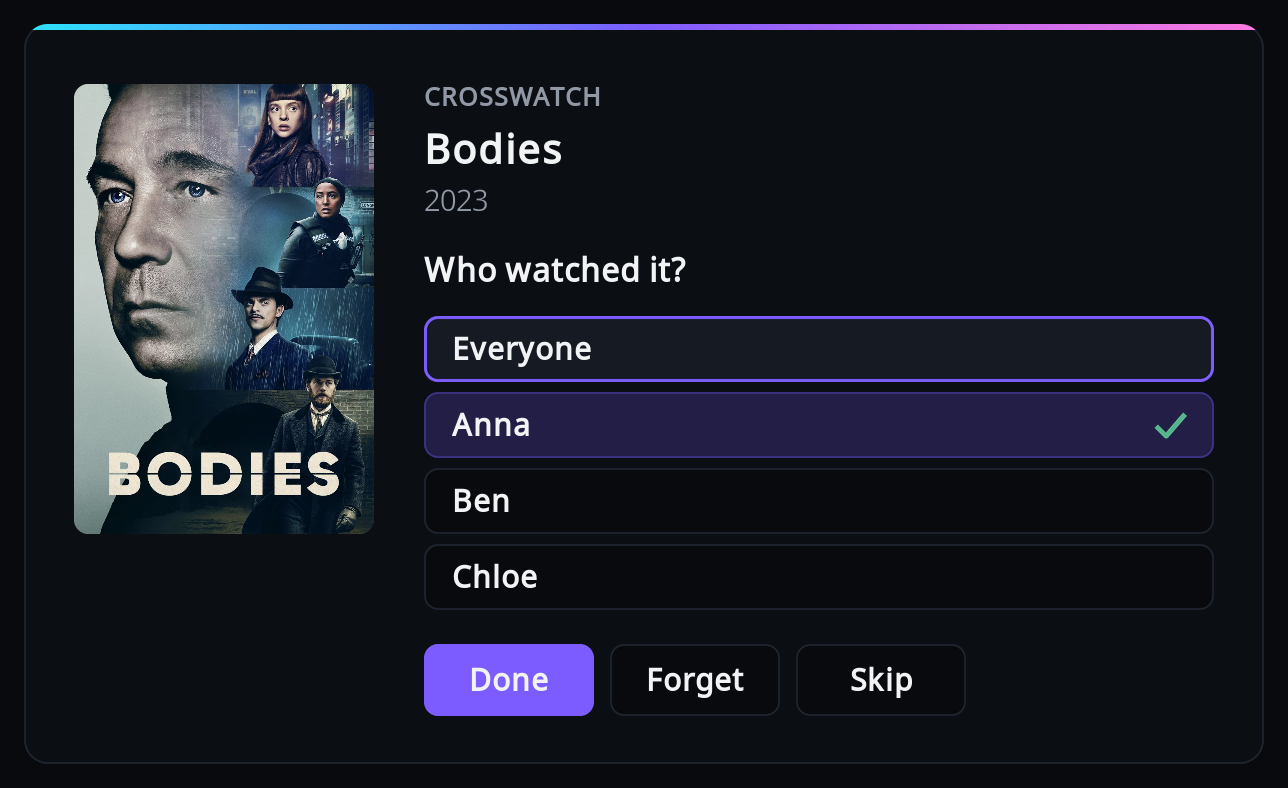
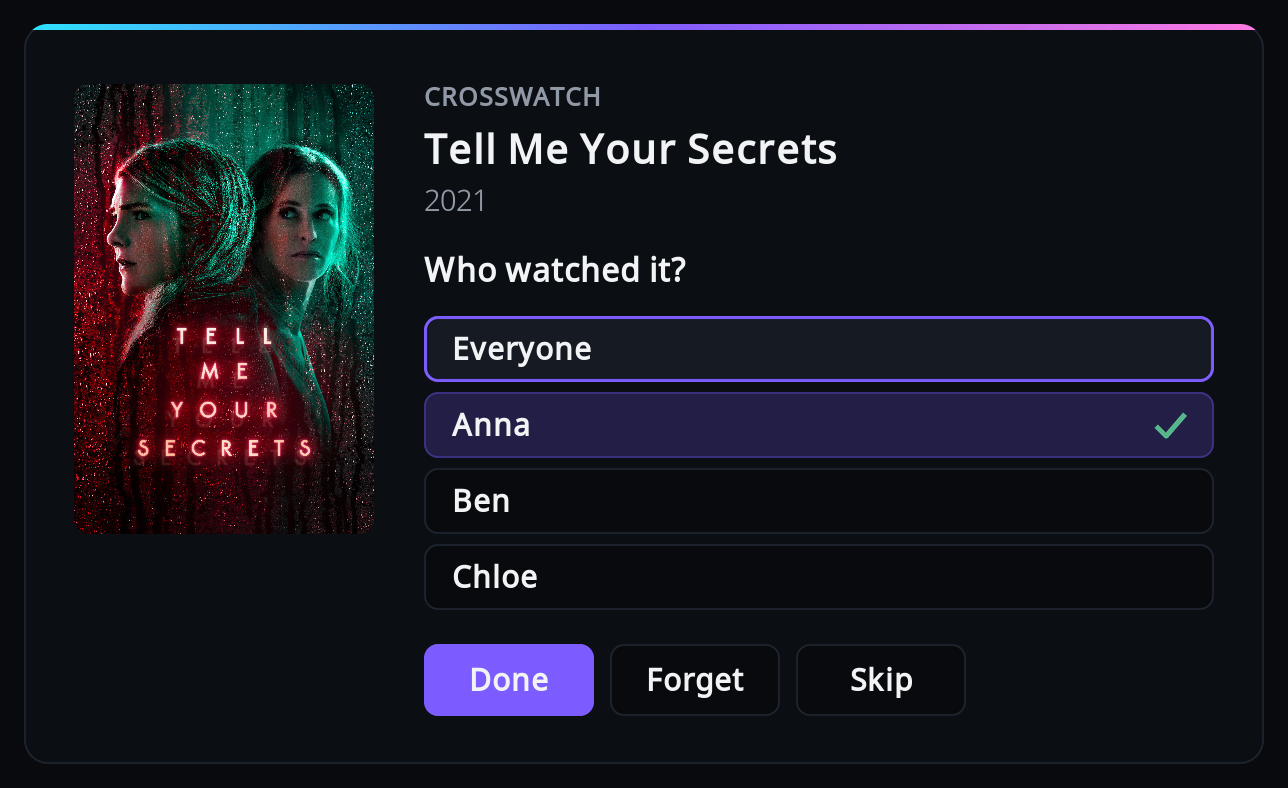
Describe the playlist picker window and capture it
README explains ticking, Done and Cancel, the "Also" line for a
shared playlist, how a missing playlist shows and that an unusable one
is left out and dropped on Done, the notice when Kodi has no show or
film playlist, and the hidden bulk button on Remembered answers. New
screenshot scenes cover the picker, a search, and a missing playlist;
the other windows are recaptured.

Changed region(s): [[0.0311, 0.0914, 0.6522, 0.7005]]

diff --git a/docker/scripts/screenshot_helper/default.py b/docker/scripts/screenshot_helper/default.py
@@ -59,6 +59,9 @@ DEMO_TAG = ["", "", "", "covered by playlist", "", "not in library", "", ""]
 def _list(scene: dict, path: str) -> None:
     from resources.lib.ui import list_window as lw
 
+    if scene.get("rows") == "playlists":
+        _pick(scene, path)
+        return
     with open(os.path.join(HERE, "library.json"), encoding="utf-8") as handle:
         shows = json.load(handle)["shows"]
     rows = tuple(
@@ -84,6 +87,45 @@ def _list(scene: dict, path: str) -> None:
     )
     dialog = window.ListDialog(window.LIST_XML, path, "Default", "1080i")
     dialog.prepare(request, lw.ListState(search=scene["search"], filter_index=scene["filter"]), TARGET.getLocalizedString)
+    try:
+        dialog.doModal()
+    finally:
+        dialog.stop()
+
+
+# name, other viewers with it, flag (string id or 0), ticked
+DEMO_PLAYLISTS = [
+    ("Anna's shows", "", 0, True),
+    ("Cartoons", "Ben", 0, True),
+    ("Documentaries", "", 0, False),
+    ("Family films", "Ben, Chloe", 0, False),
+    ("Sci-fi", "", 0, False),
+    ("Westerns", "", 0, False),
+    ("Old favourites", "", 30058, True),
+]
+
+
+def _pick(scene: dict, path: str) -> None:
+    from resources.lib.ui import list_window as lw
+
+    text = TARGET.getLocalizedString
+    rows = tuple(
+        lw.ListRow(
+            key=name, title=name, detail=text(30098).replace("%s", also) if also else "", tag=text(flag) if flag else ""
+        )
+        for name, also, flag, _ in DEMO_PLAYLISTS
+    )
+    request = lw.ListRequest(
+        heading=text(30052).replace("%s", "Anna"),
+        rows=rows,
+        count_one=text(30059),
+        count_all=text(30056),
+        pick=True,
+        ticked=tuple(name for name, _, _, ticked in DEMO_PLAYLISTS if ticked),
+    )
+    dialog = window.PickListDialog(window.LIST_XML, path, "Default", "1080i")
+    state = lw.ListState(search=scene["search"], position=scene.get("position", 0))
+    dialog.prepare(request, state, text)
     try:
         dialog.doModal()
     finally:

diff --git a/README.md b/README.md
@@ -172,10 +172,11 @@ The add-on works out who was watching, first match wins:
 A show (for an episode) or a film is credited to every viewer whose playlist contains it.
 Playlists are video smart playlists from Kodi's playlists folder, of shows or of films;
 playlists of episodes or music videos are not used. The playlist picker only offers playlists
-of shows or films. If a viewer already had a playlist of another type, it stays in their list,
-marked "not a TV show or film playlist" (and the viewer shows "unusable" in the viewer list).
-It never credits anyone and is simply ignored: the viewer's other playlists still count.
-Untick it in the picker to remove it.
+of shows or films. If a viewer already had a playlist of another type, it is not listed in
+the picker, and it stays in their list until you press Done, which removes it from that
+viewer (Cancel or Back leaves it). Until it is removed, the viewer list still shows that
+viewer as "unusable". It never credits anyone and is simply ignored: the viewer's other
+playlists still count. Playlists of the wrong type are never offered to anyone.
 
 - Works well: a fixed list of shows, or rules on genre, tag or similar show attributes.
 - Avoid playlists whose membership follows from playback itself, such as "Continue Watching"
@@ -260,10 +261,10 @@ answer unchanged. A show marked "not stable" can only be forgotten, so OK on it 
 confirmation instead.
 
 The button below the list reads "Forget all", or "Forget N shown" while a search or viewer
-narrows the list. It forgets exactly the shows listed, after a Yes/No confirmation (No is
-preselected). After each change the list comes back with the same search, viewer and
-position; when nothing is left the screen closes with a short notice. Changes apply from the
-next playback, no restart needed.
+narrows the list. When a search or viewer filter matches nothing, the button is hidden. It
+forgets exactly the shows listed, after a Yes/No confirmation (No is preselected). After each
+change the list comes back with the same search, viewer and position; when nothing is left the
+screen closes with a short notice. Changes apply from the next playback, no restart needed.
 
 Playlist membership is checked first, so it overrides a remembered answer to the prompt. The
 Remembered answers screen marks such a show "covered by playlist": its answer is kept, and
@@ -275,6 +276,29 @@ should describe what that person watches, not what they just happened to play.
 "Configure viewers and playlists" lists the viewers, with "Add viewer" to add one. Adding a
 viewer asks for its name ("Viewer name, as CrossWatch routes it"), then which playlists are
 theirs. Each viewer in the list offers Edit playlists, Edit Kodi profiles and Remove viewer.
+
+Edit playlists, and the playlist step of Add viewer, open a CrossWatch window titled
+"Playlists for <viewer name>". It lists Kodi's smart playlists of TV shows or films. Press OK
+on a playlist to tick or untick it; the viewer's current playlists start ticked. "Done" keeps
+the ticked playlists. "Cancel" or Back leaves the viewer's playlists exactly as they were.
+
+A search box at the top narrows the list by playlist name: press OK on it, type with Kodi's
+keyboard and confirm. A ticked playlist the search hides stays ticked and is kept when you
+press Done. A count shows how many playlists are listed ("7 playlists", or "1 of 7" while
+searching).
+
+A playlist that another viewer already has shows "Also <names>" next to it (for example "Also
+Ben, Chloe"). Giving a playlist to two viewers credits both of them for everything in it.
+
+A playlist the viewer has that was deleted or renamed is listed at the end, ticked, tagged
+"missing". Untick it and press Done to remove it from that viewer; leave it ticked and it is
+kept, so it counts again if the playlist comes back. A playlist the viewer has that is not a
+TV show or film playlist is not listed (see "Smart playlists" above). Playlists of the wrong
+type are never offered to anyone.
+
+When Kodi has no smart playlists of TV shows or films at all, a message says so ("Kodi has
+no smart playlists of TV shows or films yet. Make one under Videos, Playlists, then come
+back here.") and no list opens. The viewer's playlists stay as they were.
 
 ## Settings reference
 
@@ -338,9 +362,10 @@ that still exists.
 
 **A playlist shows as unusable**
 
-The playlist is not a TV show or film playlist, so it can never credit anyone. Edit that
-viewer's playlists and untick it, or change the playlist's type in Kodi to shows or films.
-The viewer's other playlists keep working in the meantime.
+The playlist is not a TV show or film playlist, so it can never credit anyone. It is not
+listed in the picker, so there is nothing to untick: open Edit playlists for that viewer and
+press Done to remove it, or change the playlist's type in Kodi to shows or films. The
+viewer's other playlists keep working in the meantime.
 
 ### Logs
 
